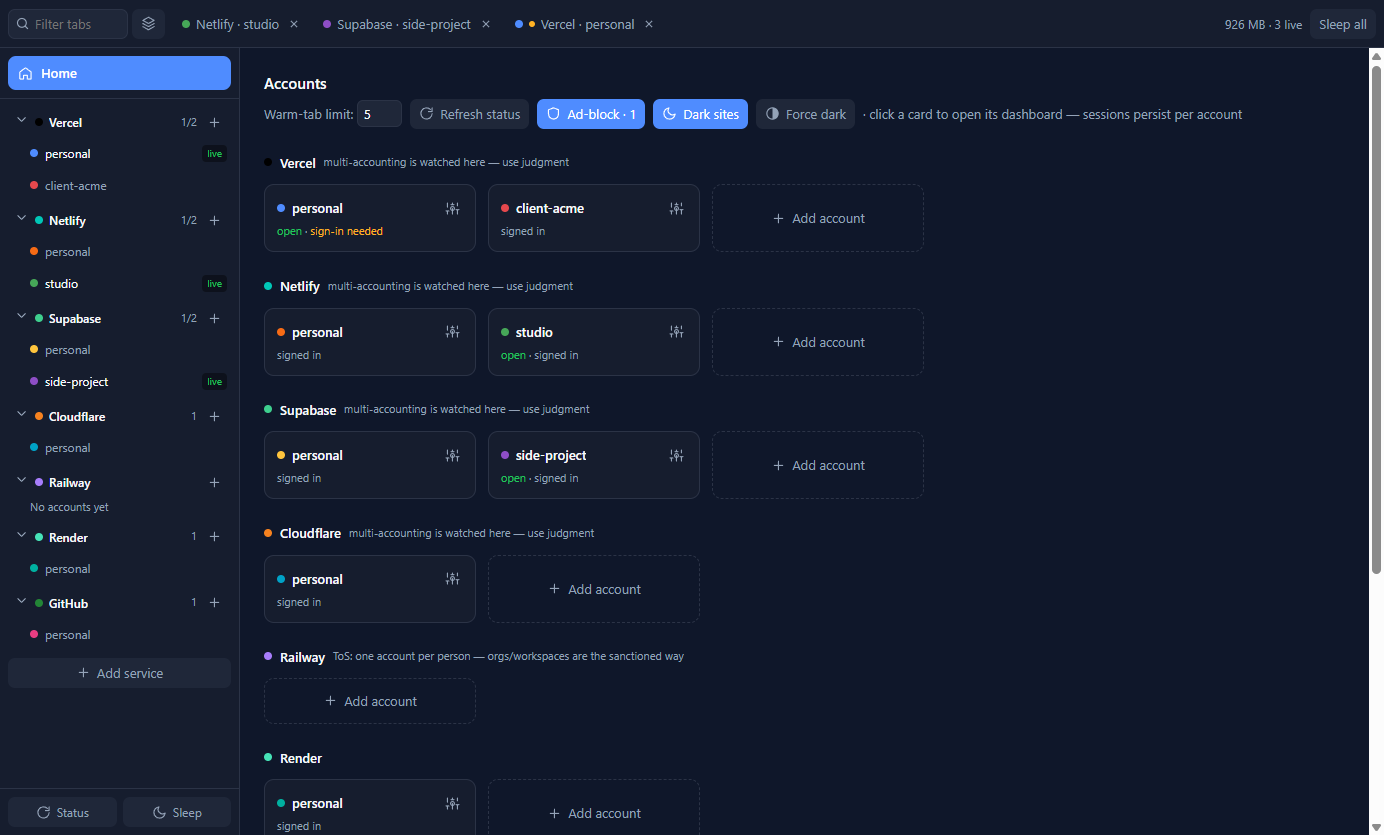
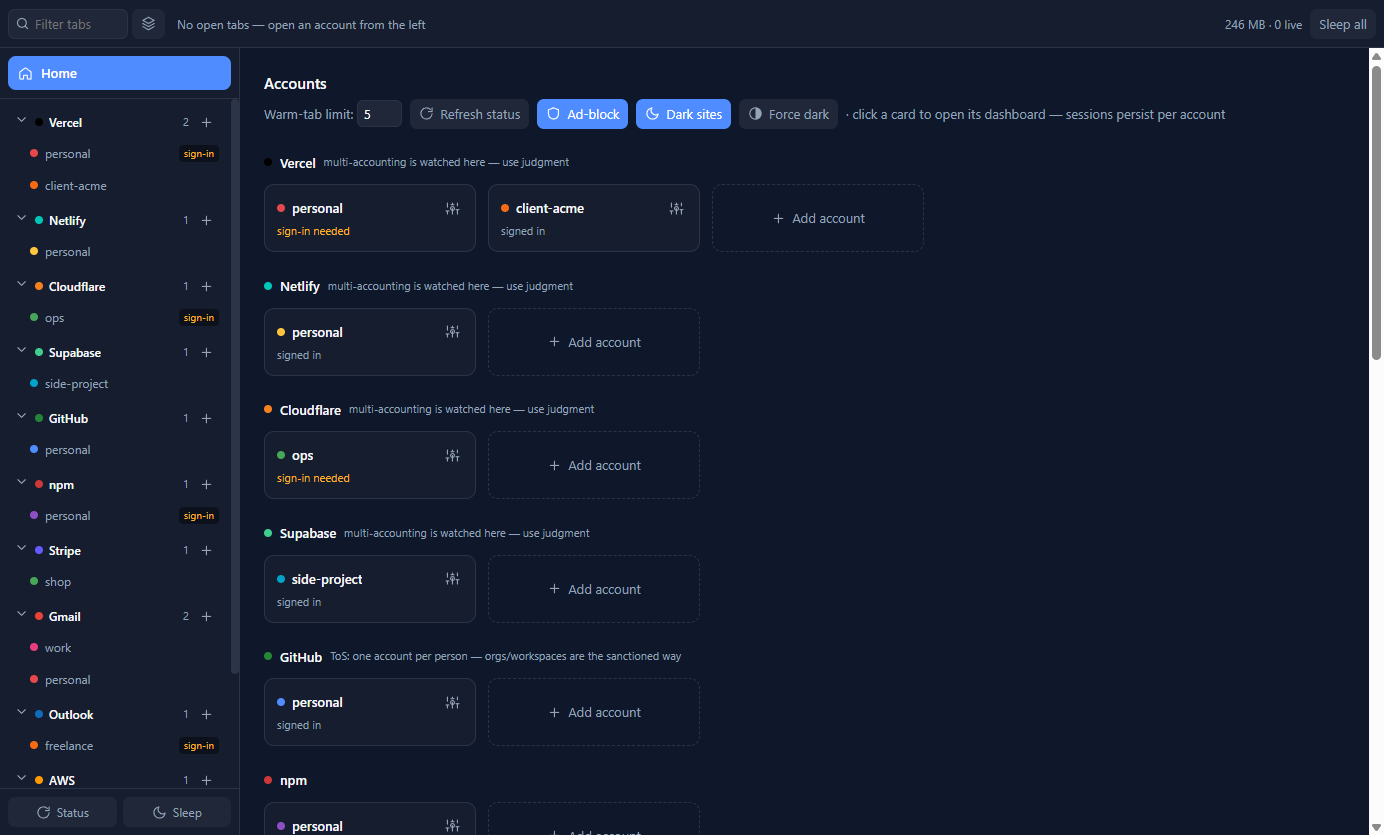
v0.6.0: browser controls for the active tab (back/forward/reload/dashboard/address bar)
- navigation cluster in the top strip; http(s)-only address bar navigating the tab's own view
- Navigate menu: Alt+Left/Right, Ctrl+R, F5, Alt+Home, Ctrl+L
- View menu reload roles removed (they only reloaded the chrome)
- 8 navigation checks in npm run smoke; README screenshots refreshed from a demo profile

Claude-Session: https://claude.ai/code/session_01QAyek6x6kQqkZBKQdkDQWp

diff --git a/src/main.js b/src/main.js
@@ -282,6 +282,8 @@ class ViewManager {
     };
     view.webContents.on('did-navigate', onNav);
     view.webContents.on('did-navigate-in-page', onNav); // dashboards route client-side (pushState) — must track too
+    view.webContents.on('did-start-loading', () => this.emitState());
+    view.webContents.on('did-stop-loading', () => this.emitState());
     view.webContents.on('render-process-gone', () => {
       console.error(`renderer gone: ${key}`);
       this.hibernate(key); // drop the dead view; partition survives, reopening rehydrates
@@ -439,10 +441,41 @@ class ViewManager {
           key: k, svc: s.svc, id: s.id, label: a.label || s.id, colorIdx: a.colorIdx || 0,
           title: t ? t.title : '', url: t ? t.url : s.url,
           live: !!t, visible: t ? t.visible : false,
+          canGoBack: !!(t && !t.view.webContents.isDestroyed() && t.view.webContents.navigationHistory.canGoBack()),
+          canGoForward: !!(t && !t.view.webContents.isDestroyed() && t.view.webContents.navigationHistory.canGoForward()),
+          loading: !!(t && !t.view.webContents.isDestroyed() && t.view.webContents.isLoading()),
           lastState: t ? t.lastState : (a.lastState || 'unknown'),
         };
       }),
     });
+  }
+
+  // Browser-style navigation for the ACTIVE tab. `navigate` accepts http(s) only — the address bar
+  // must never become a way to launch other schemes from the chrome.
+  nav(action, url) {
+    const t = this.tabs.get(this.activeKey);
+    if (!t || t.view.webContents.isDestroyed()) return false;
+    const wc = t.view.webContents;
+    switch (action) {
+      case 'back': if (wc.navigationHistory.canGoBack()) wc.navigationHistory.goBack(); break;
+      case 'forward': if (wc.navigationHistory.canGoForward()) wc.navigationHistory.goForward(); break;
+      case 'reload': wc.reload(); break;
+      case 'stop': wc.stop(); break;
+      case 'dashboard': { const svc = serviceByKey(t.svc); if (svc) wc.loadURL(svc.dashboardUrl).catch(() => {}); break; }
+      case 'navigate': {
+        let target = String(url || '').trim();
+        if (!target) return false;
+        if (!/^[a-z][a-z0-9+.-]*:/i.test(target)) target = `https://${target}`; // "example.com/path" → https
+        let parsed;
+        try { parsed = new URL(target); } catch { return false; }
+        if (parsed.protocol !== 'https:' && parsed.protocol !== 'http:') return false;
+        wc.loadURL(parsed.href).catch(err => console.error(`navigate failed ${this.activeKey}:`, err.message));
+        break;
+      }
+      default: return false;
+    }
+    this.emitState();
+    return true;
   }
 
   snapshotMemory() {
@@ -574,6 +607,25 @@ async function runSmoke() {
   check('accounts-json-written', accountsFile, userDataPath('accounts.json'));
   const mem = vm.snapshotMemory();
   check('live-tabs', mem.liveTabs === 3, `${mem.totalMB}MB`);
+
+  // browser-style navigation on the active tab (address bar, back, dashboard) — http(s) only
+  const key = accountKey('netlify', 'a1');
+  vm.activate(key);
+  const urlOf = () => vm.tabs.get(key).view.webContents.getURL();
+  const waitFor = async (pred, ms = 15000) => { const t0 = Date.now(); while (Date.now() - t0 < ms) { if (pred()) return true; await sleep(250); } return pred(); };
+  check('nav-rejects-javascript-scheme', vm.nav('navigate', 'javascript:alert(1)') === false && !urlOf().startsWith('javascript:'));
+  check('nav-rejects-file-scheme', vm.nav('navigate', 'file:///C:/Windows') === false && !urlOf().startsWith('file:'));
+  check('nav-rejects-empty', vm.nav('navigate', '   ') === false);
+  vm.nav('navigate', 'example.com'); // bare host → https
+  check('nav-address-goes-there', await waitFor(() => /^https:\/\/example\.com\/?$/.test(urlOf())), urlOf());
+  check('nav-can-go-back', vm.tabs.get(key).view.webContents.navigationHistory.canGoBack());
+  vm.nav('back');
+  check('nav-back-returns', await waitFor(() => /netlify\.com/.test(urlOf())), urlOf());
+  vm.nav('navigate', 'https://example.org/');
+  await waitFor(() => /example\.org/.test(urlOf()));
+  vm.nav('dashboard');
+  check('nav-dashboard-returns-to-service', await waitFor(() => /app\.netlify\.com/.test(urlOf())), urlOf());
+  check('nav-noop-without-active-tab', (() => { const k = vm.activeKey; vm.activeKey = null; const r = vm.nav('reload'); vm.activeKey = k; return r === false; })());
 
   fs.writeFileSync(path.join(__dirname, '..', 'smoke-report.json'), JSON.stringify(results, null, 2));
   app.exit(results.checks.every(c => c.ok) ? 0 : 1);
@@ -938,8 +990,20 @@ function runInteractive(captureMode = false) {
         })),
       ],
     },
+    {
+      label: 'Navigate',
+      submenu: [
+        { label: 'Back', accelerator: 'Alt+Left', click: () => vm.nav('back') },
+        { label: 'Forward', accelerator: 'Alt+Right', click: () => vm.nav('forward') },
+        { label: 'Reload', accelerator: 'CmdOrCtrl+R', click: () => vm.nav('reload') },
+        { label: 'Reload', accelerator: 'F5', click: () => vm.nav('reload') },
+        { label: 'Dashboard', accelerator: 'Alt+Home', click: () => vm.nav('dashboard') },
+        { type: 'separator' },
+        { label: 'Focus Address Bar', accelerator: 'CmdOrCtrl+L', click: () => { if (win.webContents && !win.webContents.isDestroyed()) win.webContents.send('focus-address'); } },
+      ],
+    },
     { label: 'Edit', submenu: [{ role: 'copy' }, { role: 'paste' }, { role: 'selectAll' }] },
-    { label: 'View', submenu: [{ role: 'reload' }, { role: 'forceReload' }, { type: 'separator' }, { role: 'zoomIn' }, { role: 'zoomOut' }, { role: 'zoomReset' }, { type: 'separator' }, { role: 'toggleDevTools' }] },
+    { label: 'View', submenu: [{ role: 'zoomIn' }, { role: 'zoomOut' }, { role: 'zoomReset' }, { type: 'separator' }, { role: 'toggleDevTools' }] },
   ]);
   Menu.setApplicationMenu(menu);
 
@@ -989,6 +1053,7 @@ function runInteractive(captureMode = false) {
     return key;
   });
   ipcMain.handle('activate-tab', (_e, key) => vm.activate(key));
+  ipcMain.handle('nav', (_e, action, url) => vm.nav(String(action || ''), url));
   ipcMain.handle('sleep-tab', (_e, key) => vm.hibernate(key));
   ipcMain.handle('sleep-all', () => vm.hibernateAll());
   ipcMain.handle('update-account', (_e, svc, id, patch) => vm.updateAccount(svc, id, patch || {}));

diff --git a/src/ui.js b/src/ui.js
@@ -21,6 +21,10 @@ const $railFoot = document.getElementById('railfoot');
 const ICONS = {
   home: '<path d="M3 9.5 12 3l9 6.5V20a1 1 0 0 1-1 1h-5v-6H9v6H4a1 1 0 0 1-1-1V9.5Z"/>',
   plus: '<path d="M12 5v14M5 12h14"/>',
+  arrowLeft: '<path d="M19 12H5m7-7-7 7 7 7"/>',
+  arrowRight: '<path d="M5 12h14m-7-7 7 7-7 7"/>',
+  stop: '<path d="M6 6h12v12H6z"/>',
+  dashboard: '<path d="M4 5h16v14H4zM4 10h16M9 10v9"/>',
   chevron: '<path d="m6 9 6 6 6-6"/>',
   x: '<path d="M18 6 6 18M6 6l12 12"/>',
   moon: '<path d="M21 12.79A9 9 0 1 1 11.21 3 7 7 0 0 0 21 12.79Z"/>',
@@ -96,8 +100,39 @@ function tabHtml(t) {
   </div>`;
 }
 
+// ============ browser-style navigation for the active tab ============
+const $nav = document.getElementById('nav');
+const $addr = document.getElementById('addr');
+function renderNav() {
+  const t = state.activeKey !== null ? state.tabs.find(x => x.key === state.activeKey) : null;
+  $nav.hidden = !t;
+  if (!t) return;
+  document.getElementById('nav-back').disabled = !t.canGoBack;
+  document.getElementById('nav-fwd').disabled = !t.canGoForward;
+  const reload = document.getElementById('nav-reload');
+  reload.innerHTML = icon(t.loading ? 'stop' : 'refresh');
+  reload.title = t.loading ? 'Stop loading' : 'Reload (Ctrl+R / F5)';
+  reload.dataset.action = t.loading ? 'stop' : 'reload';
+  $addr.classList.toggle('loading', !!t.loading);
+  if (document.activeElement !== $addr) $addr.value = t.url || ''; // never clobber what the user is typing
+}
+document.getElementById('nav-back').innerHTML = icon('arrowLeft');
+document.getElementById('nav-fwd').innerHTML = icon('arrowRight');
+document.getElementById('nav-dash').innerHTML = icon('dashboard');
+document.getElementById('nav-back').onclick = () => window.api.nav('back');
+document.getElementById('nav-fwd').onclick = () => window.api.nav('forward');
+document.getElementById('nav-dash').onclick = () => window.api.nav('dashboard');
+document.getElementById('nav-reload').onclick = e => window.api.nav(e.currentTarget.dataset.action || 'reload');
+$addr.addEventListener('focus', () => $addr.select());
+$addr.addEventListener('keydown', e => {
+  if (e.key === 'Enter') { e.preventDefault(); window.api.nav('navigate', $addr.value); $addr.blur(); }
+  else if (e.key === 'Escape') { e.preventDefault(); e.stopPropagation(); renderNav(); $addr.blur(); } // restore, do NOT go Home
+});
+window.api.onFocusAddress(() => { if (!$nav.hidden) { $addr.focus(); $addr.select(); } });
+
 function renderTabs() {
   $extBtn.hidden = state.activeKey === null; // only meaningful while a dashboard is open
+  renderNav();
   const tabs = state.tabs.filter(tabMatchesFilter);
   if (!tabs.length) {
     $tabs.innerHTML = `<span style="color:var(--muted);font-size:12px;padding-left:4px">${

diff --git a/src/ui.html b/src/ui.html
@@ -37,6 +37,16 @@
     .filterwrap svg { position:absolute; left:7px; color:var(--muted); pointer-events:none; }
 
     #tabs { display:flex; align-items:center; gap:var(--s1); flex:1 1 0; min-width:0; overflow-x:auto; overflow-y:hidden; height:100%; }
+    #nav { display:flex; align-items:center; gap:4px; flex:0 1 auto; min-width:0; }
+    #nav[hidden] { display:none; }
+    .navbtn { padding:0 6px; }
+    .navbtn:disabled { opacity:.35; cursor:default; }
+    .navbtn:disabled:hover { background:var(--panel2); color:var(--muted); }
+    #addr { height:30px; width:300px; min-width:140px; max-width:40vw; padding:0 9px; border:1px solid var(--border); border-radius:7px;
+            background:var(--panel2); color:var(--text); font:inherit; font-size:12px; text-overflow:ellipsis; transition:border-color .18s; }
+    #addr:focus { border-color:var(--accent); outline:none; }
+    #addr.loading { border-color:var(--accent); background:linear-gradient(90deg, var(--panel3) 0 30%, var(--panel2) 60% 100%) 0 0/200% 100%; animation:addrload 1.2s linear infinite; }
+    @keyframes addrload { from { background-position:200% 0; } to { background-position:0 0; } }
     #tabs::-webkit-scrollbar { height:0; }
     .tabgroup { display:flex; align-items:center; gap:var(--s1); padding-left:var(--s2); flex:none;
                 border-left:1px solid var(--border); height:30px; }
@@ -163,6 +173,13 @@
   <div id="strip">
     <div id="tabctl"></div>
     <div id="tabs"></div>
+    <div id="nav" hidden>
+      <button class="ctlbtn navbtn" id="nav-back" title="Back (Alt+Left)" aria-label="Back"></button>
+      <button class="ctlbtn navbtn" id="nav-fwd" title="Forward (Alt+Right)" aria-label="Forward"></button>
+      <button class="ctlbtn navbtn" id="nav-reload" title="Reload (Ctrl+R / F5)" aria-label="Reload"></button>
+      <button class="ctlbtn navbtn" id="nav-dash" title="Back to this account's dashboard (Alt+Home)" aria-label="Dashboard"></button>
+      <input id="addr" type="text" spellcheck="false" autocomplete="off" placeholder="Address (Ctrl+L)" title="Current page — type an address and press Enter to go there inside this account's session" />
+    </div>
     <div id="right">
       <span id="mem">–</span>
       <button class="ctlbtn" id="ext-btn" title="Open the active tab in your system browser" hidden></button>

diff --git a/src/preload.js b/src/preload.js
@@ -43,6 +43,8 @@ contextBridge.exposeInMainWorld('api', {
   memory: () => ipcRenderer.invoke('memory'),
   openExternal: url => ipcRenderer.invoke('open-external', url),
   activeTabUrl: () => ipcRenderer.invoke('active-tab-url'),
+  nav: (action, url) => ipcRenderer.invoke('nav', action, url),
+  onFocusAddress: cb => ipcRenderer.on('focus-address', () => cb()),
   setAccountToken: (svc, id, plain) => ipcRenderer.invoke('set-account-token', svc, id, plain),
   clearAccountToken: (svc, id) => ipcRenderer.invoke('clear-account-token', svc, id),
   refreshAllStatus: () => ipcRenderer.invoke('refresh-all-status'),

diff --git a/README.md b/README.md
@@ -72,6 +72,11 @@ Each provider lists its accounts; hovering one reveals open / sleep / close / fi
 
 ![A dashboard open in the app](docs/screenshots/dashboard.png)
 
+Browser controls appear in the strip while a tab is open: back, forward, reload, dashboard, and an
+address bar that navigates inside that account's own session.
+
+![Navigation bar with a Gmail sign-in open](docs/screenshots/navigation.png)
+
 **The top bar is only your open tabs** — filter them, or group them by provider with collapsible sections.
 Slept tabs stay in the strip (dimmed) and resume on click.
 
@@ -126,7 +131,10 @@ sessions, one place.
   hover actions: open, sleep, close, fill login, connect an API token, manage. Collapse any provider.
 - **Top bar — open tabs only.** A filter box and a group-by-provider toggle with collapsible groups.
 - **Home** is always one click (or `Esc`) away: a grid of every service and account with live status.
-- Keyboard: `Ctrl+W` sleep, `Ctrl+Shift+W` sleep all, `Ctrl+Tab` cycle, `Ctrl+1…9` jump.
+- **Browser controls** while a tab is open: back, forward, reload/stop, back-to-dashboard, and an
+  editable address bar that navigates inside that account's own session (http/https only).
+- Keyboard: `Ctrl+W` sleep, `Ctrl+Shift+W` sleep all, `Ctrl+Tab` cycle, `Ctrl+1…9` jump,
+  `Alt+Left`/`Alt+Right` back/forward, `Ctrl+R`/`F5` reload, `Alt+Home` dashboard, `Ctrl+L` address.
 
 ### Saved logins
 - **Remembers logins you type** inside an account tab, bound to *that* account, so two accounts on the

diff --git a/docs/CHANGELOG.md b/docs/CHANGELOG.md
@@ -2,6 +2,20 @@
 
 All notable changes. Format loosely follows Keep a Changelog.
 
+## 0.6.0 — 2026-09-07
+
+### Added
+- **Browser controls for the open tab.** Back, Forward, Reload/Stop, a "back to dashboard" button and
+  an editable address bar sit in the top strip whenever a tab is active. Type an address and press
+  Enter to go there inside that account's own session (http/https only; a bare `example.com` becomes
+  https). Shortcuts: `Alt+Left` / `Alt+Right`, `Ctrl+R` or `F5`, `Alt+Home` for the dashboard,
+  `Ctrl+L` to focus the address bar. `Esc` inside the address bar restores it instead of going Home.
+- Eight navigation checks in `npm run smoke` (scheme rejection, address navigation, back, dashboard).
+
+### Changed
+- The View menu's Reload entries, which only ever reloaded the app chrome, are replaced by the
+  Navigate menu that acts on the active account tab.
+
 ## 0.5.0 — 2026-09-07
 
 ### Added
